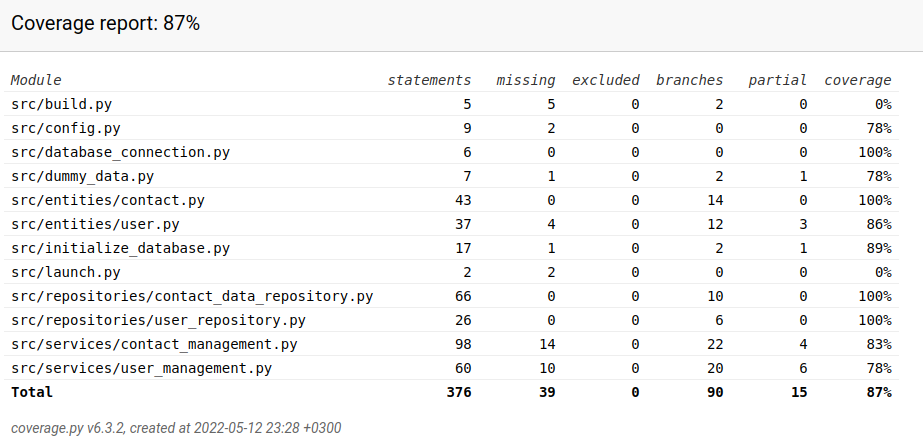
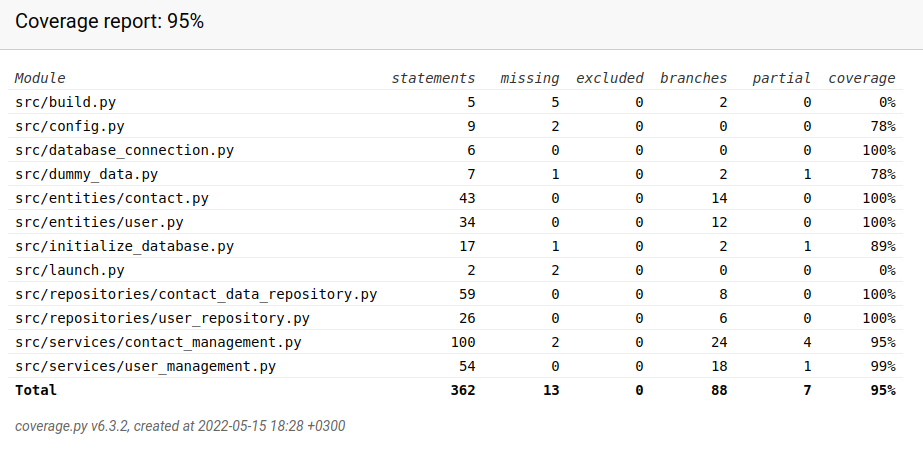
Finalize test-documentation

diff --git a/documentation/testing-documentation.md b/documentation/testing-documentation.md
@@ -8,10 +8,10 @@ The application has been tested both with automated unit and integration tests a
 The application logic is handled by instances of classes `ContactManagement` and `UserManagement` in package `Services`. The tests for service classes can be found from classes [TestContactManagement](https://github.com/heidi-holappa/ot-harjoitustyo/blob/master/src/tests/contact_test.py) and [TestUserManagement](https://github.com/heidi-holappa/ot-harjoitustyo/blob/master/src/tests/user_test.py). In both classes the objects are setup so that instances of repository class objects are injected to them. Tests are configured to use test database during tests. The database is initialized before each test. 
 
 ### Reposiotry classes
-Repository classes `ContactDataRepository` and `UserRepository` are tested by using a test database created each time a test is run. The name of the test database if configured into the .env.test -file. `ContactDataRepository` is tested with the class [TestContactRepository](https://github.com/heidi-holappa/ot-harjoitustyo/blob/master/src/tests/contact_repository_test.py) and `UserRepository` is tested with the class [TestUserRepository](https://github.com/heidi-holappa/ot-harjoitustyo/blob/master/src/tests/user_repository_test.py).
+Repository classes `ContactDataRepository` and `UserRepository` are tested by using a test database created each time a test is run. The name of the test database is configured into the .env.test -file. `ContactDataRepository` is tested with the class [TestContactRepository](https://github.com/heidi-holappa/ot-harjoitustyo/blob/master/src/tests/contact_repository_test.py) and `UserRepository` is tested with the class [TestUserRepository](https://github.com/heidi-holappa/ot-harjoitustyo/blob/master/src/tests/user_repository_test.py).
 
 ### Test coverage
-Excluding the UI-package the branch coverage rate is 87 percent
+Excluding the UI-package the branch coverage rate is 95 percent
 
 ![Coverage report](images/coverage-report-img.png)
 
@@ -27,7 +27,7 @@ The application has been downloaded and installed by following the project docum
 Application has been tested both in situations where stored data exists and where a fresh install is launched. 
 
 ### Functionalities
-ALl functionalities listed in the [requirements specification](requirements-specification.md) have been tested. With all interactive fields invalid submissions (or lack of submissions) have been tried out. 
+All functionalities listed in the [requirements specification](requirements-specification.md) have been tested. With all interactive fields invalid submissions (or lack of submissions) have been tried out. 
 
 ## Existing quality issues
 * The error message is not user fiendly when the project is not initialized with the command 'poetry run invoke build.'
